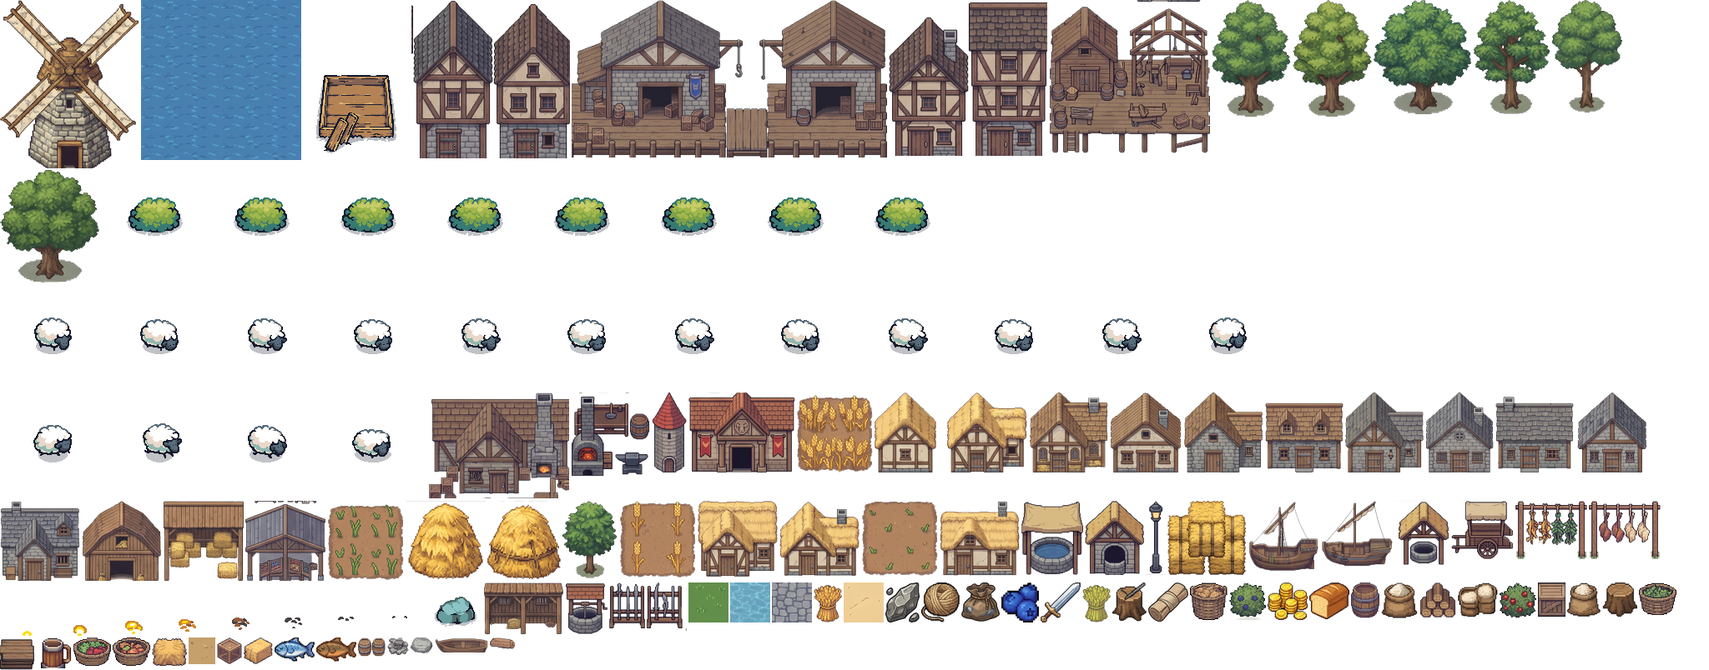
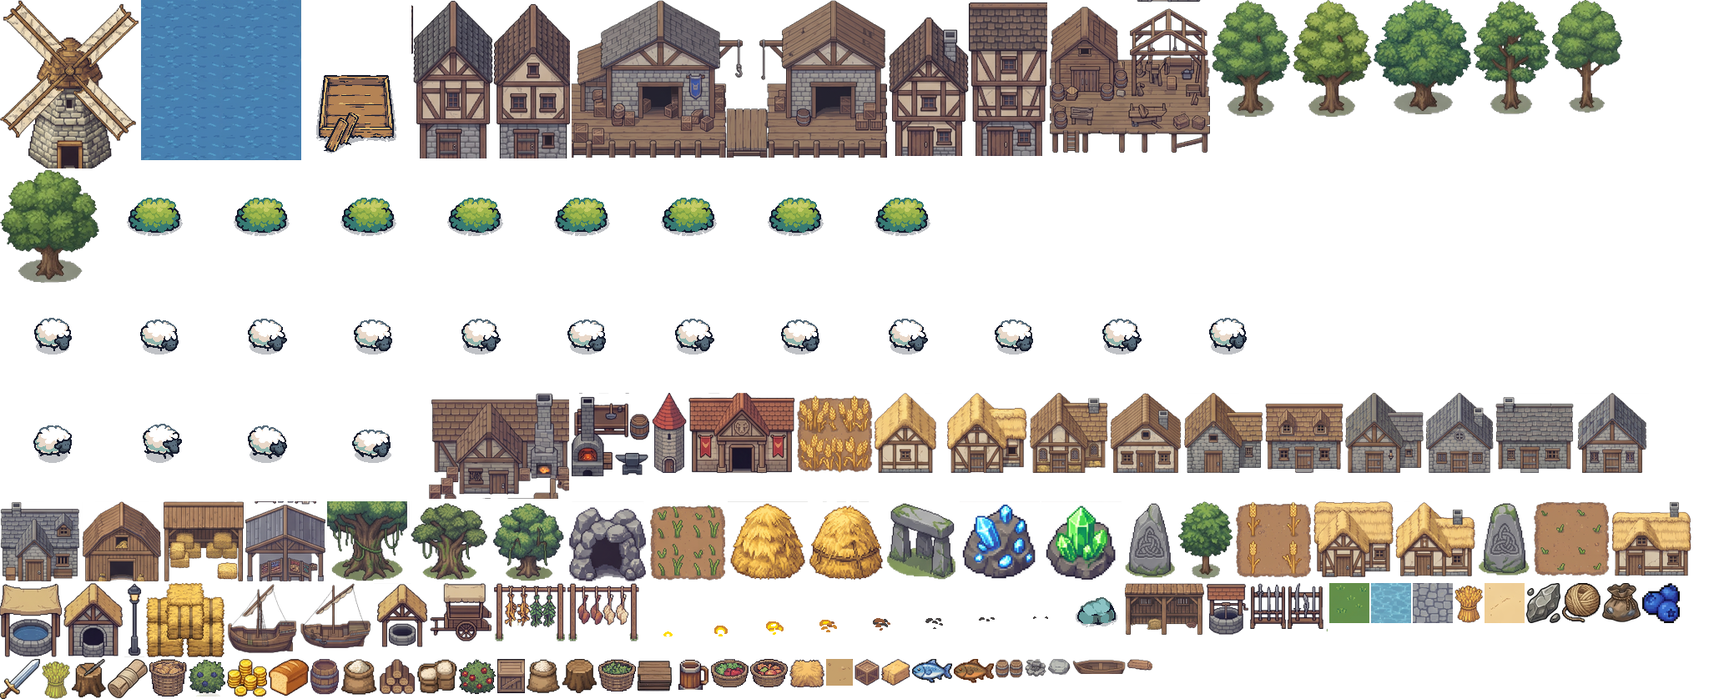
Terres franches, ère 3 étape 1 : la carte de la forêt
- Maquette 9 validée : direction A (la clairière des anciens), sans
  chevauchements ; magie, marché, Édit du Commerce et branche SAVOIR : oui.
- carte.js : CARTES[3], 40 × 40 : grande clairière, grotte aux cristaux
  (terrain Z) entre ses rochers, ruisseau avec ses berges, cercle de
  pierres (terrain C) dans sa clairière, 26 terrains avec une marge
  d'herbe, place assez grande pour la petite ville.
- jeu.js : grotte et cristaux qui luisent, cercle de pierres (dolmen et
  menhirs), arbres anciens dans la forêt ; chaque colonie quittée est
  gardée (terres.vallee, terres.terre2) et se visite.
- atlas.py : morceaux des packs Celtic Druid Village et Underground Mine
  (6e dossier) ; crédits.
- Tests : contrôles de carte sur les trois cartes ; fumée jusqu'à la
  forêt.
- Docs, sw.js v108.

Claude-Session: https://claude.ai/code/session_012rRjPHE6E5cJMLYcQwQ3Zv

diff --git a/terres-franches/atlas.js b/terres-franches/atlas.js
@@ -1,3 +1,3 @@
 /* Terres franches : où est chaque image dans img/decor.png et img/animaux.png (fabriqué par outils/terres-maquette/atlas.py). */
-window.TerresAtlas = {"moulin1":[0,0,167,202],"mer":[169,0,192,192],"chantier":[363,0,128,192],"brasserie":[493,0,190,190],"port":[685,0,378,189],"taverne":[1065,0,190,187],"scierie":[1257,0,193,184],"s-arbre1":[1452,0,95,141],"s-arbre6":[1549,0,95,140],"s-arbre5":[1646,0,118,138],"s-arbre3":[1766,0,92,137],"s-arbre2":[1860,0,85,136],"s-arbre4":[0,204,119,135],"buisson":[121,204,1024,128],"mouton-broute":[0,341,1536,128],"mouton-marche":[0,471,512,128],"fumoir":[514,471,168,127],"forge":[684,471,95,101],"tour":[781,471,42,97],"caserne":[825,471,128,97],"champ-mur":[955,471,91,96],"chaume2":[1048,471,85,96],"chaume5":[1135,471,96,96],"colomb1":[1233,471,95,96],"colomb2":[1330,471,86,96],"colomb3":[1418,471,96,96],"colomb4":[1516,471,94,96],"pierre1":[1612,471,94,96],"pierre2":[1708,471,82,96],"pierre3":[1792,471,94,96],"pierre4":[1888,471,88,96],"pierre5":[0,601,96,96],"grange":[98,601,96,96],"hangar":[196,601,96,96],"atelier":[294,601,96,96],"champ-pousse":[392,601,92,95],"meule1":[486,601,96,95],"meule2":[584,601,88,95],"s-jeune":[674,601,66,93],"champ-blond":[742,601,92,92],"chaume1":[836,601,96,91],"chaume4":[934,601,96,91],"champ-nu":[1032,601,92,90],"chaume3":[1126,601,96,90],"fontaine":[1224,601,74,89],"four":[1300,601,71,89],"lanterne":[1373,601,24,89],"meule-foin":[1399,601,95,89],"voilier":[1496,601,85,85],"barque-pillards":[1583,601,87,79],"puits-couvert":[1672,601,65,77],"charrette":[1739,601,75,70],"sechoir-poisson":[1816,601,86,70],"sechoir-viande":[1904,601,86,70],"feu":[0,699,512,64],"rocher":[514,699,64,64],"abri":[580,699,95,63],"puits":[677,699,51,62],"ratelier":[730,699,93,58],"herbe":[825,699,48,48],"eau":[875,699,48,48],"pave":[925,699,48,48],"i-ble":[975,699,34,48],"sable":[1011,699,48,48],"i-pierre":[1061,699,41,48],"i-laine":[1104,699,46,48],"i-farine":[1152,699,46,48],"i-baies":[1200,699,45,48],"i-armes":[1247,699,48,48],"i-orge":[1297,699,34,48],"souche-hache":[1333,699,41,47],"i-tissu":[1376,699,48,47],"panier-patates":[1426,699,45,45],"baies-bleues":[1473,699,44,45],"i-or":[1519,699,48,45],"i-pain":[1569,699,48,44],"tonneau":[1619,699,34,43],"sac-farine":[1655,699,44,43],"i-bois":[1701,699,44,42],"sacs-grain":[1747,699,48,42],"baies-rouges":[1797,699,44,42],"caisse":[1843,699,33,41],"sac":[1878,699,40,41],"souche":[1920,699,42,41],"panier-legumes":[1964,699,45,39],"i-planches":[0,765,46,39],"i-biere":[48,765,38,37],"panier-baies":[88,765,45,34],"panier-pommes":[135,765,45,34],"foin":[182,765,42,34],"terre":[226,765,32,32],"caisse-p":[260,765,30,32],"botte":[292,765,35,32],"i-poisson":[329,765,48,29],"i-fume":[379,765,48,29],"tonneaux":[429,765,33,23],"gravats":[464,765,26,21],"rocher-p":[492,765,27,19],"barque":[521,765,64,18],"buche":[587,765,30,14]};
+window.TerresAtlas = {"moulin1":[0,0,167,202],"mer":[169,0,192,192],"chantier":[363,0,128,192],"brasserie":[493,0,190,190],"port":[685,0,378,189],"taverne":[1065,0,190,187],"scierie":[1257,0,193,184],"s-arbre1":[1452,0,95,141],"s-arbre6":[1549,0,95,140],"s-arbre5":[1646,0,118,138],"s-arbre3":[1766,0,92,137],"s-arbre2":[1860,0,85,136],"s-arbre4":[0,204,119,135],"buisson":[121,204,1024,128],"mouton-broute":[0,341,1536,128],"mouton-marche":[0,471,512,128],"fumoir":[514,471,168,127],"forge":[684,471,95,101],"tour":[781,471,42,97],"caserne":[825,471,128,97],"champ-mur":[955,471,91,96],"chaume2":[1048,471,85,96],"chaume5":[1135,471,96,96],"colomb1":[1233,471,95,96],"colomb2":[1330,471,86,96],"colomb3":[1418,471,96,96],"colomb4":[1516,471,94,96],"pierre1":[1612,471,94,96],"pierre2":[1708,471,82,96],"pierre3":[1792,471,94,96],"pierre4":[1888,471,88,96],"pierre5":[0,601,96,96],"grange":[98,601,96,96],"hangar":[196,601,96,96],"atelier":[294,601,96,96],"arbre-ancien1":[392,601,96,96],"arbre-ancien2":[490,601,96,96],"arbre-ancien3":[588,601,90,96],"grotte":[680,601,96,96],"champ-pousse":[778,601,92,95],"meule1":[872,601,96,95],"meule2":[970,601,88,95],"dolmen":[1060,601,88,95],"cristaux-b":[1150,601,96,95],"cristaux-v":[1248,601,96,95],"menhir2":[1346,601,64,94],"s-jeune":[1412,601,66,93],"champ-blond":[1480,601,92,92],"chaume1":[1574,601,96,91],"chaume4":[1672,601,96,91],"menhir":[1770,601,65,91],"champ-nu":[1837,601,92,90],"chaume3":[1931,601,96,90],"fontaine":[0,699,74,89],"four":[76,699,71,89],"lanterne":[149,699,24,89],"meule-foin":[175,699,95,89],"voilier":[272,699,85,85],"barque-pillards":[359,699,87,79],"puits-couvert":[448,699,65,77],"charrette":[515,699,75,70],"sechoir-poisson":[592,699,86,70],"sechoir-viande":[680,699,86,70],"feu":[768,699,512,64],"rocher":[1282,699,64,64],"abri":[1348,699,95,63],"puits":[1445,699,51,62],"ratelier":[1498,699,93,58],"herbe":[1593,699,48,48],"eau":[1643,699,48,48],"pave":[1693,699,48,48],"i-ble":[1743,699,34,48],"sable":[1779,699,48,48],"i-pierre":[1829,699,41,48],"i-laine":[1872,699,46,48],"i-farine":[1920,699,46,48],"i-baies":[1968,699,45,48],"i-armes":[0,790,48,48],"i-orge":[50,790,34,48],"souche-hache":[86,790,41,47],"i-tissu":[129,790,48,47],"panier-patates":[179,790,45,45],"baies-bleues":[226,790,44,45],"i-or":[272,790,48,45],"i-pain":[322,790,48,44],"tonneau":[372,790,34,43],"sac-farine":[408,790,44,43],"i-bois":[454,790,44,42],"sacs-grain":[500,790,48,42],"baies-rouges":[550,790,44,42],"caisse":[596,790,33,41],"sac":[631,790,40,41],"souche":[673,790,42,41],"panier-legumes":[717,790,45,39],"i-planches":[764,790,46,39],"i-biere":[812,790,38,37],"panier-baies":[852,790,45,34],"panier-pommes":[899,790,45,34],"foin":[946,790,42,34],"terre":[990,790,32,32],"caisse-p":[1024,790,30,32],"botte":[1056,790,35,32],"i-poisson":[1093,790,48,29],"i-fume":[1143,790,48,29],"tonneaux":[1193,790,33,23],"gravats":[1228,790,26,21],"rocher-p":[1256,790,27,19],"barque":[1285,790,64,18],"buche":[1351,790,30,14]};
 window.TerresAnimauxAtlas = {"chat":[0,0,512,256],"chien":[514,0,512,256],"biche":[1028,0,256,384],"cerf":[1286,0,256,384],"renard":[1544,0,256,256],"oiseau1":[1802,0,96,256],"oiseau2":[1900,0,96,256],"poule":[1998,0,128,128],"poule-mange":[2128,0,128,128],"poisson":[2258,0,128,128]};

diff --git a/terres-franches/carte.js b/terres-franches/carte.js
@@ -56,9 +56,9 @@ function fabriquer(n, nom, GRILLE, o){
     const c = GRILLE[y][x];
     if (c === "F") FEU = [x, y];
     if (c === "^") TENTE = [x, y];
-    if (!/[a-zXYPQRSKLGM]/.test(c)) continue;
+    if (!/[a-zXYPQRSKLGMZC]/.test(c)) continue;
     const L = LOTS[c] || (LOTS[c] = {id: c, x, y, l: 0, h: 0, terrain: /[a-z]/.test(c) ? "terre" : /[XY]/.test(c) ? "roche" : /[RS]/.test(c) ? "reserve" : /[KL]/.test(c) ? "garnison" 
-      : c === "G" ? "guet" : c === "M" ? "port" : "rive", tags: ETIQUETTES[c] || []});
+      : c === "G" ? "guet" : c === "M" ? "port" : c === "Z" ? "grotte" : c === "C" ? "cercle" : "rive", tags: ETIQUETTES[c] || []});
     L.l = Math.max(L.l, x - L.x + 1); L.h = Math.max(L.h, y - L.y + 1);
   }
   for (const L of Object.values(LOTS)){
@@ -137,7 +137,7 @@ function fabriquer(n, nom, GRILLE, o){
         const nx = x + DIRS[nd][0], ny = y + DIRS[nd][1]; if (nx < 0 || ny < 0 || nx >= W || ny >= H) continue;
         const c = GRILLE[ny][nx], estBut = but(nx, ny);
         let k = deja.has(ny * W + nx) ? .35 : cout(c);
-        if (/[a-zXYPQM]/.test(c) && !estBut) k = null;
+        if (/[a-zXYPQMZC]/.test(c) && !estBut) k = null;
         if (eviter && eviter.has(ny * W + nx) && !estBut) k = null;
         if (k === null) continue;
         const ng = gc + k + (d !== 4 && d !== nd ? .6 : 0), kk = cle(nx, ny, nd);
@@ -221,14 +221,61 @@ const COTE = [
   "~~~~~~~~~~~~~~~~~~~~~~~~~~~~~~~~",
   "~~~~~~~~~~~~~~~~~~~~~~~~~~~~~~~~",
   "~~~~~~~~~~~~~~~~~~~~~~~~~~~~~~~~"];
+/* ---------- la forêt profonde (ère 3, maquette 9 direction A : la clairière des anciens) ----------
+   40 × 40 : une grande clairière dans la forêt ; au nord, la grotte aux cristaux (Z, « grotte », 3 × 2) entre ses rochers, d'où le ruisseau part
+   vers l'est puis longe tout le bord est ; le cercle de pierres (C, « cercle », 3 × 3) dans sa clairière au nord-ouest ; chaque terrain a une marge
+   d'herbe (rien ne chevauche la forêt), le ruisseau a ses berges ; 26 terrains de 3 × 3 (bonne terre à l'est, entre la ville et le ruisseau : o p q r s t ; pré : z). */
+const FORET = [
+  "TTTTTTTTTTTTTTTTTTTTTTTTTTTTTTTTTTTTTTTT",
+  "TTTTTTTTTTTTTTT..TT..TTTTTTTTTTTTTTTTTTT",
+  "TTTTTTTTTTTT...........TTTTTTTTTTTTTTTTT",
+  "TTTTTTTTTTT..XX...ZZZ..................T",
+  "TTTTTTTTTT...XX...ZZZ.~~~~~~~~~~~~~~~~~T",
+  "TTTTTTTT..............~~~~~~~~~~~~~~~~~T",
+  "TTT......zzz.YY......................~~T",
+  "TT.......zzz.YY........RR...TTTTTTTT.~~T",
+  "TT.......zzz...........RR.......TTTT.~~T",
+  "T...CCC.........................TTTT.~~T",
+  "T...CCC.......*...........*....TTTTT.~~T",
+  "TT..CCC.........................TTTT.~~T",
+  "TTT................................T.~~T",
+  "TTT.....*..aaa.bbb.ccc.ddd....ooo..T.~~T",
+  "TTTT.......aaa.bbb.ccc.ddd....ooo..T.~~T",
+  "TTT........aaa.bbb.ccc.ddd....ooo...P~~T",
+  "TT...................................~~T",
+  "TT.....xxx.iii............lll.ppp.sss~~T",
+  "TTTT...xxx.iii............lll.ppp.sss~~T",
+  "T......xxx.iii............lll.ppp.sss~~T",
+  "T................^...................~~T",
+  "TTT....yyy.jjj.....F......mmm.qqq.ttt~~T",
+  "TTT....yyy.jjj............mmm.qqq.ttt~~T",
+  "TT.....yyy.jjj............mmm.qqq.ttt~~T",
+  "TT...................................~~T",
+  "TT..*..KKK.kkk............nnn.rrr....~~T",
+  "TT.....KKK.kkk..*.........nnn.rrr....~~T",
+  "T......KKK.kkk............nnn.rrr...Q~~T",
+  "TTTT.................................~~T",
+  "TTTT...LLL.eee.fff.ggg.hhh....SS.....~~T",
+  "TTTT.*.LLL.eee.fff.ggg.hhh....SS...T.~~T",
+  "TT.T...LLL.eee.fff.ggg.hhh.........T.~~T",
+  "T.G.TT............................TT.~~T",
+  "......T....uuu.vvv.....www.......TTT.~~T",
+  "TTTTTTTTTT.uuu.vvv.....www.......TTT.~~T",
+  "TTTTTTTTTT.uuu.vvv.....www..TTTTTTTT.~~T",
+  "TTTTTTTTTT.................TTTTTTTTT.~~T",
+  "TTTTTTTTTTTTTT...TT...TT..TTTTTTTTTT.~~T",
+  "TTTTTTTTTTTTTTT.TTT..TTTTTTTTTTTTTTT.~~T",
+  "TTTTTTTTTTTTTTTTTTTTTTTTTTTTTTTTTTTT.~~T"];
 const CARTES = {
   1: fabriquer(1, "LA VALLEE", GRILLE, {etiquettes: {i: ["fertile"], j: ["fertile"], k: ["fertile"], l: ["fertile"], n: ["pre"]}, entree: [2, 23],
     zones: {biche: [[3, 10, 2, 6], [1, 4.5, 8, 15]], cerf: [3, 11, 1.5, 5.5], renard: [21.2, 21.8, 3, 17], champs: [2, 13, 17, 23]}}),
   2: fabriquer(2, "LA COTE", COTE, {etiquettes: {m: ["fertile"], r: ["fertile"], s: ["fertile"], q: ["fertile"], w: ["fertile"], p: ["pre"]}, entree: [0, 17], mer: true,
-    zones: {biche: [[2, 9, 2, 6], [26, 30, 2, 9]], cerf: [8, 16, 1.5, 4], renard: [1, 30, 26.2, 26.8], champs: [24, 30, 6, 22]}})
+    zones: {biche: [[2, 9, 2, 6], [26, 30, 2, 9]], cerf: [8, 16, 1.5, 4], renard: [1, 30, 26.2, 26.8], champs: [24, 30, 6, 22]}}),
+  3: fabriquer(3, "LA FORET", FORET, {etiquettes: {o: ["fertile"], p: ["fertile"], q: ["fertile"], r: ["fertile"], s: ["fertile"], t: ["fertile"], z: ["pre"]}, entree: [0, 33],
+    zones: {biche: [[1, 8, 1, 8], [27, 36, 6, 11]], cerf: [1, 4, 12, 30], renard: [36.2, 36.8, 7, 34], champs: [29, 37, 12, 28]}})
 };
 // la carte d'une partie (selon son ère) ; l'objet exporté est la carte affichée, changée sur place par utiliser(n)
-const de = S => CARTES[Math.min(2, (S && S.ere) || 1)];
+const de = S => CARTES[Math.min(3, (S && S.ere) || 1)];
 const api = Object.assign({CARTES, de, utiliser(n){ if (api.n !== n) Object.assign(api, CARTES[n]); return api; }}, CARTES[1]);
 if (typeof module !== "undefined" && module.exports) module.exports = api;
 if (typeof window !== "undefined") window.TerresCarte = api;

diff --git a/terres-franches/jeu.js b/terres-franches/jeu.js
@@ -65,7 +65,7 @@ function fonder(nom){
   recompenser(); const L = lois();
   const P = REEL || S; if (!P.loi) return "LA LOI N'EST PAS PROMULGUEE";
   P.vu = Date.now();
-  if ((P.ere || 1) === 1) ecrire(CLE_VALLEE, R.sauver(P));
+  ecrire(cleTerre(P.ere || 1), R.sauver(P));
   L.colonies.push({nom: P.nom || DON.ERES[P.ere || 1].nom, ere: P.ere || 1, pop: P.pop, statut: P.statut, fin: Date.now()});
   sauverLois(L);
   S = R.nouvelleColonie({nom, lois: L.prises, ere: (P.ere || 1) + 1});
@@ -73,9 +73,10 @@ function fonder(nom){
   return null;
 }
 // revoir la vallée, figée : rien n'y avance, la partie en cours continue pendant ce temps
-const valleeGardee = () => !!lire(CLE_VALLEE);
-function visiter(){
-  const t = lire(CLE_VALLEE), V0 = t && R.charger(t); if (!V0) return false;
+const cleTerre = e => e === 1 ? CLE_VALLEE : "terres.terre" + e;
+const valleeGardee = (e) => !!lire(cleTerre(e || 1));
+function visiter(e){
+  const t = lire(cleTerre(e || 1)), V0 = t && R.charger(t); if (!V0) return false;
   if (!REEL) REEL = S;
   V0.raid.phase = null; V0.evts = []; S = V0; vueNeuve(); document.body.classList.add("visite"); centrer(); return true;
 }
@@ -106,7 +107,7 @@ function planterArbres(){
   for (let y = -2; y < C.H - 1; y += 2) for (let xx = -2; xx < C.W + 1; xx += 2){
     let n = 0; for (const [dx, dy] of [[0, 0], [1, 0], [0, 1], [1, 1]]) if (C.case_(xx + dx, y + dy) === "T") n++;
     if (n < 3) continue;
-    const h = hash(xx, y), n2 = "s-arbre" + (1 + Math.floor(h * 6));
+    const h = hash(xx, y), n2 = C.n === 3 && AT["arbre-ancien1"] && hash(y * 3, xx) < .22 ? "arbre-ancien" + (1 + Math.floor(hash(xx, y * 7) * 3)) : "s-arbre" + (1 + Math.floor(h * 6));   // la forêt profonde : des arbres anciens
     // décalé au hasard, sinon au centre du carré, sinon on recule vers la forêt : l'ombre au pied ne doit pas toucher l'eau
     for (const [ox, oy] of [[(h - .5) * 1.2, (hash(y, xx) - .5)], [0, 0], [.5, 0], [-.5, 0], [0, -.5]]){
       const X = (xx + 1 + ox) * T, Y = (y + 1.6 + oy) * T;
@@ -349,6 +350,19 @@ function barques(t){
   const n = Math.min(3, Math.max(1, (S.jobs.pecheur || 0) - 4)), X = (L.x + L.l / 2) * T, Y = (L.y + L.h + 2.2) * T;
   for (let k = 0; k < n; k++){ const an = t * .07 + k * 2.1, bx = X + Math.cos(an) * (110 + k * 40), by = Y + 20 + Math.sin(an) * 18 + k * 14;
     x.save(); x.translate(Math.round(bx), Math.round(by)); if (Math.sin(an) < 0) x.scale(-1, 1); spr("barque", 0, Math.sin(t * 2 + k) * 1.2, .8); x.restore(); }
+}
+// la forêt profonde : la grotte aux cristaux (au nord, entre ses rochers) et le cercle de pierres (le lieu du mage)
+function grotte(L, t){
+  const X = (L.x + L.l / 2) * T, Y = (L.y + L.h) * T + 6;
+  spr("grotte", X, Y, 1.05);
+  for (const [dx, dy, n, k] of [[-46, 2, "cristaux-b", .5], [44, 4, "cristaux-v", .45], [-24, 12, "cristaux-v", .32]]) spr(n, X + dx, Y + dy, k);
+  const a = .25 + .1 * Math.sin(t * 1.5); x.fillStyle = `rgba(140,190,255,${a})`; x.beginPath(); x.ellipse(X, Y - 38, 40, 18, 0, 0, 6.3); x.fill();   // la lueur des cristaux
+}
+function cercle(L, liste){
+  const X = (L.x + L.l / 2) * T, Y = (L.y + L.h / 2) * T + 8;
+  liste.push([Y - 12, () => spr("dolmen", X, Y - 4, .62)]);
+  for (let k = 0; k < 8; k++){ const an = k / 8 * 6.283 + .2, px = X + Math.cos(an) * 50, py = Y + Math.sin(an) * 30; if (Math.abs(Math.sin(an)) < .2 && Math.cos(an) > 0 && k % 2) continue;
+    liste.push([py, () => spr(k % 3 ? "menhir" : "menhir2", px, py, .38)]); }
 }
 function ponton(L){
   const [dx, dy] = L.vers, X = (L.x + .5) * T, Y = (L.y + .5) * T, lg = 1.6 * T;
@@ -779,6 +793,8 @@ function image(now){
   for (let y = 0; y < C.H; y++) for (let xx = 0; xx < C.W; xx++) if (C.GRILLE[y][xx] === "*") L.push([(y + .95) * T, () => buissonBaies(xx, y, t)]);
   for (const id in C.LOTS){ const Lo = C.LOTS[id];
     if (Lo.terrain === "roche" && S.lots[id] !== "carriere") for (const [a, b2, k] of ROCHERS) L.push([Lo.y * T + b2, () => spr("rocher", Lo.x * T + a, Lo.y * T + b2, k)]);
+    if (Lo.terrain === "grotte" && !S.lots[id]) L.push([(Lo.y + Lo.h) * T, () => grotte(Lo, t)]);
+    if (Lo.terrain === "cercle" && !S.lots[id]) cercle(Lo, L);
     if (enCours[id] && enCours[id].agrandit) L.push([(Lo.y + Lo.h) * T, () => { batiment(S.lots[id], id, t); chantier(enCours[id], id, t, true); }]);
     else if (enCours[id]) L.push([(Lo.y + Lo.h) * T, () => chantier(enCours[id], id, t)]);
     else if (S.lots[id] && !["champ", "orge", "ponton"].includes(S.lots[id])) L.push([(Lo.y + Lo.h) * T - 2, () => batiment(S.lots[id], id, t)]);

diff --git a/credits/index.html b/credits/index.html
@@ -111,7 +111,7 @@
   <div class="res"><b>Celtic Druid Village Top-Down Pixel Art Tileset</b><span class="lic">licence du pack (achat)</span>
     <p>Par Cute SCKR (comshadow), même lot que la vallée. Usage dans un jeu permis, revente et redistribution des fichiers seuls interdites ; crédit apprécié. Le pack n'est pas dans le dépôt.</p>
     <p><a href="https://comshadow.itch.io/celtic-druid-village-topdown-pixel-art-tileset">comshadow.itch.io/celtic-druid-village-topdown-pixel-art-tileset</a> · <a href="https://itch.io/s/181841/tileset-bundle">itch.io/s/181841/tileset-bundle</a></p>
-    <p class="jeux">Maquette 9 de Terres franches (la forêt profonde) : arbres anciens, cercle de pierres, dolmens.</p></div>
+    <p class="jeux">Terres franches (le jeu, <code>terres-franches/img/decor.png</code>) : arbres anciens, dolmen et menhirs du cercle de pierres (ère 3). Maquette 9 de Terres franches (la forêt profonde) : arbres anciens, cercle de pierres, dolmens.</p></div>
   <div class="res"><b>Fairy Forest Village Top-Down Pixel Art Tileset</b><span class="lic">licence du pack (achat)</span>
     <p>Par Cute SCKR (comshadow), même lot que la vallée. Usage dans un jeu permis, revente et redistribution des fichiers seuls interdites ; crédit apprécié. Le pack n'est pas dans le dépôt.</p>
     <p><a href="https://comshadow.itch.io/fairy-forest-village-topdown-pixel-art-tileset">comshadow.itch.io/fairy-forest-village-topdown-pixel-art-tileset</a> · <a href="https://itch.io/s/181841/tileset-bundle">itch.io/s/181841/tileset-bundle</a></p>
@@ -119,7 +119,7 @@
   <div class="res"><b>Medieval Underground Mine Top-Down Pixel Art Tileset</b><span class="lic">licence du pack (achat)</span>
     <p>Par Cute SCKR (comshadow), même lot que la vallée. Usage dans un jeu permis, revente et redistribution des fichiers seuls interdites ; crédit apprécié. Le pack n'est pas dans le dépôt.</p>
     <p><a href="https://comshadow.itch.io/medieval-underground-mine-topdown-pixel-art-tileset">comshadow.itch.io/medieval-underground-mine-topdown-pixel-art-tileset</a> · <a href="https://itch.io/s/181841/tileset-bundle">itch.io/s/181841/tileset-bundle</a></p>
-    <p class="jeux">Maquette 9 de Terres franches (la forêt profonde) : grotte, cristaux.</p></div>
+    <p class="jeux">Terres franches (le jeu, <code>terres-franches/img/decor.png</code>) : la grotte et les cristaux (ère 3). Maquette 9 de Terres franches (la forêt profonde) : grotte, cristaux.</p></div>
   <div class="res"><b>Universal LPC Spritesheet Character Generator (calques de personnages)</b><span class="lic">CC-BY-SA 3.0 / GPL 3.0 / OGA-BY</span>
     <p>Par les auteurs du Liberated Pixel Cup et leurs successeurs (bluecarrot16, JaidynReiman, Pierre Vigier, Tuomo Untinen, Stephen Challener, Johannes Sjölund et beaucoup d'autres : la liste exacte par calque est dans le fichier CREDITS.csv du dépôt, elle sera recopiée ici pour chaque calque utilisé dans le jeu).</p>
     <p><a href="https://github.com/LiberatedPixelCup/Universal-LPC-Spritesheet-Character-Generator">github.com/LiberatedPixelCup/Universal-LPC-Spritesheet-Character-Generator</a></p>

diff --git a/outils/terres-simulateur.js b/outils/terres-simulateur.js
@@ -119,13 +119,13 @@ const mn = s => s === undefined ? "  —  " : (s / 60).toFixed(1).padStart(5) + 
 
 /* ---------- la carte : emplacements proposés, déplacement, routes ---------- */
 // les deux cartes : la vallée (ère 1) et la côte (ère 2) ; nb = terrains de 3 × 3, maxi = cases de rue au plus (pas de détours)
-for (const [ere, nb, maxi, stMax] of [[1, 14, 150, 2], [2, 23, 300, 3]]){
+for (const [ere, nb, maxi, stMax] of [[1, 14, 150, 2], [2, 23, 300, 3], [3, 26, 420, 4]]){
   const C = require("../terres-franches/carte.js").CARTES[ere], L = C.LOTS, nom = C.nom.toLowerCase() + " : ";
   const compte = t => Object.values(L).filter(l => l.terrain === t).length;
   verif(compte("terre") === nb && compte("roche") === 2 && compte("rive") === 2 && C.FEU && C.TENTE && C.ENTREE && C.case_(...C.ENTREE) !== "T", nom + "carte : " + nb + " terrains, 2 rochers, 2 rives, le feu, la tente, l'entrée");
   verif(Object.values(L).every(l => l.terrain !== "terre" || (l.l === 3 && l.h === 3)), nom + "terrains de 3 × 3 cases");
   if (ere > 1) verif(Object.values(L).every(l => l.terrain !== "terre" || [...Array(stMax + 1).keys()].every(st => [[l.x, l.y], [l.x + 2, l.y], [l.x, l.y + 2], [l.x + 2, l.y + 2]].every(([x, y]) => !C.surPlace(x, y, st)))), nom + "la place, à son plus grand, ne mange aucun terrain");
-  const S = ere === 1 ? R.creer() : R.nouvelleColonie({}); S.statut = 2; for (const r in S.res) S.res[r] = 1e5;
+  const S = ere === 1 ? R.creer() : R.nouvelleColonie({ere}); S.statut = 2; for (const r in S.res) S.res[r] = 1e5;
   const d = id => Math.hypot(L[id].cx - C.FEU[0], L[id].cy - C.FEU[1]);
   R.construire(S, "cabane"); const c1 = S.ordreLots[0];
   verif(Object.values(L).filter(l => l.terrain === "terre").every(l => d(c1) <= d(l.id) + 1e-9), nom + "la 1re cabane va au plus près du feu");
@@ -142,7 +142,7 @@ for (const [ere, nb, maxi, stMax] of [[1, 14, 150, 2], [2, 23, 300, 3]]){
   while (!R.construire(S, "cabane") || !R.construire(S, "maison")) ;
   for (const t of ["terre", "roche", "rive", "reserve", "garnison", "guet"]) for (const id of C.libres(S, t)) S.lots[id] = t === "terre" ? "atelier" : t === "roche" ? "carriere" : t === "rive" ? "ponton" : t === "garnison" ? (id === "K" ? "caserne" : "forge") : t === "guet" ? "tour" : id === "R" ? "aire" : "grenier", S.ordreLots.push(id);
   const ro = C.routes(S);
-  const bat = Object.keys(L).filter(id => L[id].terrain !== "port").length;   // le port (étape 3) attend son bâtiment
+  const bat = Object.keys(L).filter(id => !["port", "grotte", "cercle"].includes(L[id].terrain)).length;   // port, grotte et cercle : leurs bâtiments viennent avec le contenu de leur ère
   verif(ro.traces.length === bat, nom + "routes : chaque bâtiment a sa rue (" + ro.traces.length + "/" + bat + ")");
   verif(ro.traces.every(tr => { const p = C.porte(S, tr.id); return tr.cases[0][0] === p[0] && tr.cases[0][1] === p[1]; }), nom + "routes : elles partent des portes");
   const nr = [...ro.cases].length; verif(nr < maxi, nom + "routes : pas de détours (" + nr + " cases)");

diff --git a/terres-franches/ecran.js b/terres-franches/ecran.js
@@ -308,7 +308,7 @@ function ecranTerres(){
   const S = J.reel, L = J.lois();
   let h = `<div class="terre"><div><b>${MAJ(nomColonie(S))}</b><small>Ère ${S.ere || 1} · ${DON.STATUTS[S.statut].nom.toLowerCase()} de ${S.pop} habitant${S.pop > 1 ? "s" : ""} · en cours</small></div></div>`;
   for (const c of L.colonies.slice().reverse())
-    h += `<div class="terre"><div><b>${MAJ(c.nom)}</b><small>Ère ${c.ere} · ${(DON.STATUTS[c.statut] || DON.STATUTS[0]).nom.toLowerCase()} de ${c.pop} habitants · figée</small></div>${c.ere === 1 && J.valleeGardee() ? `<button type="button" class="bouton petit or" data-visite="1">VISITER</button>` : ""}</div>`;
+    h += `<div class="terre"><div><b>${MAJ(c.nom)}</b><small>Ère ${c.ere} · ${(R.reglages(undefined, c.ere).STATUTS[c.statut] || DON.STATUTS[0]).nom.toLowerCase()} de ${c.pop} habitant${c.pop > 1 ? "s" : ""} · figée</small></div>${J.valleeGardee(c.ere) ? `<button type="button" class="bouton petit or" data-visite="${c.ere}">VISITER</button>` : ""}</div>`;
   if (!L.colonies.length) h += `<p class="note">Une seule colonie pour l'instant. Au village complet, la Charte du Village permettra d'en fonder une nouvelle ; celle-ci restera à revoir ici.</p>`;
   $("terresListe").innerHTML = h; $("terresEcran").hidden = false;
 }
@@ -316,8 +316,8 @@ $("bTerres").onclick = () => { $("menu").hidden = true; ecranTerres(); };
 $("bTerresFermer").onclick = () => { $("terresEcran").hidden = true; };
 $("bMesLois").onclick = () => { $("terresEcran").hidden = true; ecranLois("lecture"); };
 $("terresListe").addEventListener("click", e => {
-  if (!e.target.closest("[data-visite]")) return;
-  if (!J.visiter()) return;
+  const b = e.target.closest("[data-visite]"); if (!b) return;
+  if (!J.visiter(+b.dataset.visite)) return;
   $("terresEcran").hidden = true; bulle(null); finPlacement();
   $("visiteNom").textContent = MAJ(nomColonie(J.S)) + " · FIGEE"; $("visite").hidden = false;
 });

diff --git a/terres-franches/vie.js b/terres-franches/vie.js
@@ -20,7 +20,7 @@ function pluie(S){ const k = Math.floor(S.t / 150); return hash(k, 41) < (saison
 /* ---------- les saisons ---------- */
 const ETATS = [["nu", "pousse", "pousse"], ["pousse", "mur", "mur", "blond"], ["blond", "nu", "blond", "nu"], ["nu"]];
 const etatChamp = (t, i, s) => { const E = ETATS[s]; return E[Math.floor(t / 40 + i * 1.7) % E.length]; };
-const retouche = n => n.startsWith("s-arbre") || n === "s-jeune" ? "arbre" : /^(chaume|colomb|pierre)\d/.test(n) || ["grange", "hangar", "atelier", "four", "moulin1", "puits", "puits-couvert", "fontaine"].includes(n) ? "toit" : null;
+const retouche = n => n.startsWith("s-arbre") || n.startsWith("arbre-ancien") || n === "s-jeune" ? "arbre" : /^(chaume|colomb|pierre)\d/.test(n) || ["grange", "hangar", "atelier", "four", "moulin1", "puits", "puits-couvert", "fontaine"].includes(n) ? "toit" : null;
 const cacheS = {};
 // la planche du décor retouchée pour la saison s (feuilles rousses, fleurs, neige sur les toits et les arbres)
 function recolorer(img, s){

diff --git a/outils/fumee.js b/outils/fumee.js
@@ -173,6 +173,7 @@ const shots = process.argv[2];
         if (TerresCarte.n !== 2 || TerresCarte.W !== 32 || !TerresCarte.MER) return 'la nouvelle colonie n\'est pas sur la côte';
         if (!Terres.visiter() || !Terres.visite || Terres.S.ere !== 1 || TerresCarte.W !== 24) return 'la vallée ne se visite pas';
         Terres.revenir(); if (TerresCarte.W !== 32) return 'le retour de visite ne remet pas la côte';
+        Terres.S.loi = true; Terres.recompenser(); if (Terres.fonder('Bois-Ancien') || Terres.S.ere !== 3 || TerresCarte.W !== 40 || !Terres.valleeGardee(2)) return 'la forêt (ère 3) n\'est pas fondée';
         return 'ok';
       });
       if (r !== 'ok') errs.push('Terres franches : ' + r);

diff --git a/terres-franches/donnees.js b/terres-franches/donnees.js
@@ -210,7 +210,7 @@ const LOIS = {
 };
 const POINTS_LOI = [0, 3, 4];   // par ère : la Charte du Village (ère 1) rapporte 3 points, la Loi des Guildes (ère 2) 4
 // les colonies : une par ère (l'ère 2, la côte, aura sa carte et son contenu aux étapes 2 et 3 du plan)
-const ERES = [null, {nom: "LA VALLEE", loi: "CHARTE DU VILLAGE"}, {nom: "LA COTE", loi: "LOI DES GUILDES"}];
+const ERES = [null, {nom: "LA VALLEE", loi: "CHARTE DU VILLAGE"}, {nom: "LA COTE", loi: "LOI DES GUILDES"}, {nom: "LA FORET", loi: "EDIT DU COMMERCE"}];
 
 // la marche des villageois (cases par seconde ; × route sur les rues et la place)
 const MARCHE = {vitesse: 1.7, route: 1.5};

diff --git a/sw.js b/sw.js
@@ -9,7 +9,7 @@
    - Le cache HTTP du navigateur est contourné (préchargement en « reload », réseau en « no-cache ») :
      une page neuve ne doit jamais tourner avec un script partagé resté ancien.
    - Changer VERSION quand on ajoute ou renomme des fichiers, pour refaire le préchargement. */
-const VERSION = "ludotheque-v107";
+const VERSION = "ludotheque-v108";
 const NET_WAIT = 2500;
 let slowUntil = 0;   // réseau jugé lent : pendant 10 s, les copies en cache sont servies sans attendre
 const FONTS = "ludotheque-fonts";

diff --git a/outils/terres-maquette/atlas.py b/outils/terres-maquette/atlas.py
@@ -5,7 +5,7 @@ Sorties dans terres-franches/img/ :
  - villageois.png (une rangée de 256 px par villageois : marche 576 px, repos 128 px, puis hache, pioche, canne, houe) et ../villageois.js (VILLAGEOIS LPC) ;
  - les pièces d'interface ui-*.png (copiées de bastion/img) ;
  - animaux.png + window.TerresAnimauxAtlas dans ../atlas.js : animaux LPC d'OpenGameArt (chat, chien, biche, cerf, renard, oiseaux, poules, poissons).
-Usage : python3 -I outils/terres-maquette/atlas.py <dossier SCKR> <dossier icônes> <dossier villageois LPC> <dossier des animaux> [<dossier des packs de la côte>]
+Usage : python3 -I outils/terres-maquette/atlas.py <dossier SCKR> <dossier icônes> <dossier villageois LPC> <dossier des animaux> [<dossier des packs de la côte> [<dossier des packs de la forêt>]]
 (mêmes dossiers que fabriquer-7.py ; villageois : sortie de lpc-villageois.py ... 24 11 6)."""
 import json, pathlib, re, shutil, sys
 from PIL import Image
@@ -45,6 +45,14 @@ if len(sys.argv) > 5:
     "barque": ("H4", 12, 55, 66, 30), "voilier": ("H4", 192, 576, 96, 96), "barque-pillards": ("H4", 192, 384, 96, 96), "taverne": ("SP3", 0, 0, 190, 190), "brasserie": ("SP3", 190, 0, 190, 190),
     "i-biere": ("TV4", 580, 0, 42, 40), "i-planches": ("SP5", 676, 148, 46, 42)}
   TOUTES.update(COTE); GARDE += list(COTE)
+# la forêt profonde (ère 3, 13/11) : 6e dossier facultatif = les packs de la forêt (druide/ : Celtic Druid Village, mine/ : Medieval Underground Mine)
+if len(sys.argv) > 6:
+  FO3 = pathlib.Path(sys.argv[6]); pf = lambda d, n: next((FO3 / d).rglob(f"tile-B-0{n}.png"))
+  F.update({"D5": pf("druide", 5), "MI2": pf("mine", 2), "MI3": pf("mine", 3)})
+  FORET = {"arbre-ancien1": ("D5", 0, 0, 96, 96), "arbre-ancien2": ("D5", 96, 0, 96, 96), "arbre-ancien3": ("D5", 192, 0, 96, 96),
+    "dolmen": ("D5", 480, 96, 96, 96), "menhir": ("D5", 288, 192, 96, 96), "menhir2": ("D5", 576, 192, 96, 96),
+    "grotte": ("MI2", 672, 192, 96, 96), "cristaux-b": ("MI3", 192, 384, 96, 96), "cristaux-v": ("MI3", 384, 384, 96, 96)}
+  TOUTES.update(FORET); GARDE += list(FORET)
 images, cache = {}, {}
 for nom in GARDE:
   f, x, y, l, h, *eff = TOUTES[nom]

diff --git a/specs/terres-franches.md b/specs/terres-franches.md
@@ -104,7 +104,9 @@
 - **12/11 — ère 2, étape 2 : la carte de la côte** (fait) : `carte.js` fabrique une carte par ère (`fabriquer`, `CARTES[1]` la vallée, `CARTES[2]` la côte) ; les règles prennent la carte de leur partie (`CARTE.de(S)`), l'écran dessine la carte affichée (`TerresCarte.utiliser(n)`, `preparerCarte` de `jeu.js` : taille, masques de l'eau, du sable et du sous-bois, arbres, pourtour, entrée, bêtes). **La côte** : 32 × 32 cases ; forêt au nord, à l'ouest et à l'est ; la place au milieu (assez grande pour le bourg) entourée de 12 terrains, 11 autres autour (23 en tout ; bonne terre à l'est : m r s q w ; pré au nord-ouest : p) ; rochers et aire au nord ; caserne, forge et tour près de l'entrée (à l'ouest) ; la plage (`,`, sable du pack Medieval Harbour) avec 2 pontons (P Q) et le terrain du futur port (M, 4 × 2, « port », étape 3) ; la mer au sud (motif du pack, plus sombre au large, ne gèle pas l'hiver), écume de sable mouillé, et le pourtour continue la plage et la mer. Quelques arbres isolés dans les prés (abattus quand une rue passe). Bêtes par zone de carte (`ZONES`). Contrôles du simulateur sur les deux cartes (portes reliées, pas de détours, la place du bourg ne mange aucun terrain) ; fumée : la nouvelle colonie est sur la côte, la visite repasse sur la vallée. Corrigé au passage : le bandeau des pillards vide restait affiché (`#alerte[hidden]`).
 - **13/11 — ère 2, étape 3 : le contenu de la côte** (fait) : `ERE2` dans `donnees.js`, fusionné par-dessus l'ère 1 quand `S.ere` = 2 (`R.reglages(mods, ere)` ; un coût se remplace en entier ; `carte.js` lit aussi les bâtiments et métiers de l'ère). **Nouveau** : ressources planches, poisson fumé (vivres 2), orge, bière ; métiers scieur (bois → planches, scierie), fumeur (poisson + bois → poisson fumé, fumoir), paysan (orge, champ d'orge), brasseur (orge → bière, brasserie) ; **taverne** : besoin de bière à 25 habitants (+10 % de moral, la bière se boit) ; **port** de pierre (terrain M, au bourg) : 4 places de pêcheur de plus ; statut **BOURG** (45 habitants : bois 5000, pierre 3000, planches 800, pain 600, poisson fumé 300) ; le village demande aussi 150 planches ; **Loi des Guildes** (45 habitants : planches 2500, pierre 3500, bière 400, vêtements 200, poisson fumé 600) : 4 points de Loi, gardés pour l'ère 3 (pas encore faite) ; maisons de la côte pour 5 ; recrues +7,5 % chacune (au lieu de 15 %) ; caserne à 3 niveaux ; pillards au bourg toutes les 17 à 25 min, plus forts (× 2,3), et **par la mer** (bateau sur la plage). Images (`atlas.py`, dossier des packs de la côte) : fumoir, scierie, port, barques, voilier, bateau des pillards (Medieval Harbour) ; taverne, brasserie, icône des planches (Medieval Seaport) ; chope de bière (Medieval Tavern) ; poisson fumé et orge = icônes reteintées ; champ d'orge = le champ reteinté. Robot : plan par ère (`PLANS`), sur la côte il garde d'abord des bûcherons et un carrier, et ses chaînes s'arrêtent quand le produit est en réserve (l'ère 1 garde son robot du 11/11 : mêmes temps). **Robot actif sur la côte, sans Lois** : hameau 19 min, village 2 h 18, bourg 4 h 20, Guildes 7 h 22 (cible 4 à 6 h avec les Lois : réglage à l'étape 4).
 - **13/11 — ère 2, étape 4 : le simulateur de la côte** (fait) : `partie(profil, ere, lois)` de `outils/terres-simulateur.js` joue aussi la côte ; Lois « types » pour les 3 points de la Charte : glanage, corvées, terre d'accueil. Réglages : scieurs plus rapides (0,18 planche/s, 3 places par scierie), bourg à bois 4000, pierre 2500, planches 700, pain 600, poisson fumé 300 ; Loi des Guildes à planches 1800, pierre 3000, bière 400, vêtements 200, poisson fumé 600. **Résultats du robot** : côte actif avec les Lois types : hameau 16 min, village 2 h 01, bourg 3 h 30, 45 habitants 4 h 21, **Guildes 5 h 01** ; sans Lois 5 h 39 ; en sessions (5 min par heure) 19 h. Autres choix de 3 points : glanage + bonnes saisons 4 h 47, intendant + terre d'accueil + granges 5 h 19 (l'absence ne sert qu'hors ligne). **Cibles vérifiées** : Guildes entre 4 et 6 h avec les Lois, bourg entre 2 h 30 et 4 h 30, Guildes moins de 45 min après le plafond, sans Lois plus lent mais 6 h 30 au plus, sessions moins de 4 jours. L'ère 1 est inchangée (Charte 2 h 49). **L'ère 2 est finie** (prestige, carte, contenu, simulateur) ; suite possible : l'ère 3, ou des retours après essai.
-- **13/11 — maquette 9, la forêt profonde (ère 3)** ([artefact](https://claude.ai/artifact/GAnsK5M9e29LUWKTmUYnr3), `maquettes/terres-franches-foret.html`, `outils/terres-maquette/fabriquer-9.py` + `source-9.html`) : packs achetés récupérés (Celtic Druid Village, Fairy Forest Village, Medieval Underground Mine, Medieval Alchemist Laboratory, Medieval Market ; hors du dépôt). Deux directions : **A la clairière des anciens** (arbres anciens, grotte aux cristaux et ruisseau, cercle de pierres et dolmens = lieu du mage, ville en colombages, maison enchantée en violet) et **B le bois enchanté** (maisons dans les arbres, maisons-champignons, cercle magique au sol, fontaine et bassin des fées, buissons lumineux, cristaux) ; idée : A pour la ville, B pour les bâtiments de la magie. Proposé : carte 40 × 40, on recommence au campement ; statut PETITE VILLE (80) ; mine de cristaux (grotte, bourg) ; bibliothèque (village, grimoires avec planches et pain) ; le mage (unique, enchante les bâtiments proches +20 %, halo visible) ; sorts en cristaux et grimoires (pluie bienfaisante, vent favorable, égide, veille) ; marché (échanges 2 contre 1) ; Loi de l'ère : Édit du Commerce (80 habitants, 5 points) ; branche SAVOIR dans l'arbre des Lois. **En attente des réponses de l'utilisateur.**
+- **13/11 — maquette 9, la forêt profonde (ère 3)** ([artefact](https://claude.ai/artifact/GAnsK5M9e29LUWKTmUYnr3), `maquettes/terres-franches-foret.html`, `outils/terres-maquette/fabriquer-9.py` + `source-9.html`) : packs achetés récupérés (Celtic Druid Village, Fairy Forest Village, Medieval Underground Mine, Medieval Alchemist Laboratory, Medieval Market ; hors du dépôt). Deux directions : **A la clairière des anciens** (arbres anciens, grotte aux cristaux et ruisseau, cercle de pierres et dolmens = lieu du mage, ville en colombages, maison enchantée en violet) et **B le bois enchanté** (maisons dans les arbres, maisons-champignons, cercle magique au sol, fontaine et bassin des fées, buissons lumineux, cristaux) ; idée : A pour la ville, B pour les bâtiments de la magie. Proposé : carte 40 × 40, on recommence au campement ; statut PETITE VILLE (80) ; mine de cristaux (grotte, bourg) ; bibliothèque (village, grimoires avec planches et pain) ; le mage (unique, enchante les bâtiments proches +20 %, halo visible) ; sorts en cristaux et grimoires (pluie bienfaisante, vent favorable, égide, veille) ; marché (échanges 2 contre 1) ; Loi de l'ère : Édit du Commerce (80 habitants, 5 points) ; branche SAVOIR dans l'arbre des Lois. **Réponses de l'utilisateur (13/11)** : la carte = **A** (la clairière des anciens), « attention aux superpositions des éléments » (le cercle de pierres posé sur la forêt dans la maquette : dans le jeu, chaque élément a sa clairière, rien ne chevauche la forêt) ; **oui pour le reste** (magie : grotte aux cristaux, bibliothèque, grimoires, mage et sorts ; marché 2 contre 1 ; Édit du Commerce à 5 points ; branche SAVOIR).
+- **Plan de l'ère 3 (13/11, Opus)** : 1. ✅ (13/11) **carte de la forêt** (`CARTES[3]`, 40 × 40 : clairière dans la forêt profonde, grotte aux cristaux au nord dans sa propre clairière, ruisseau qui en descend, cercle de pierres dans une clairière à l'ouest, place assez grande pour la petite ville ; arbres anciens dans la forêt ; prestige des Guildes vers la forêt, chaque ancienne colonie gardée et visitable) ; 2. **contenu** (`ERE3` : petite ville 80, mine de cristaux, bibliothèque et grimoires, mage et son halo, sorts, marché, Édit du Commerce 5 points, branche SAVOIR) ; 3. **simulateur** (cible : 6 à 10 h, d'après le tableau des ères).
+- **13/11 — ère 3, étape 1 : la carte de la forêt** (fait) : `CARTES[3]` de `carte.js` (40 × 40, `FORET`) : une grande clairière dans la forêt profonde ; au nord, la grotte aux cristaux (Z, terrain « grotte », 3 × 2) entre ses deux rochers (X Y), d'où le ruisseau part vers l'est puis longe tout le bord est (avec ses berges) ; le cercle de pierres (C, terrain « cercle ») dans sa clairière au nord-ouest ; chaque terrain a une marge d'herbe, rien ne chevauche la forêt (retour de l'utilisateur) ; 26 terrains de 3 × 3 (bonne terre à l'est, entre la ville et le ruisseau ; pré au nord-ouest), aire au pied des rochers, grenier près des champs, pontons sur le ruisseau, garnison, tour et entrée à l'ouest ; la place peut grandir jusqu'à la petite ville. Décor : la grotte avec ses cristaux qui luisent et le cercle de pierres (dolmen et menhirs) sont dessinés tant que rien n'est bâti dessus ; des arbres anciens (Celtic Druid Village) parmi les arbres de la forêt. Prestige : la Loi des Guildes permet maintenant de fonder la forêt ; chaque colonie quittée est gardée (`terres.vallee`, `terres.terre2`…) et se visite depuis MES TERRES. **En attendant l'étape 2**, la forêt reçoit le contenu de la côte (jusqu'au bourg et aux Guildes).
 - **Plan de l'ère 2 (11/11, à faire en plusieurs sessions, Opus)** :
   1. ✅ (12/11) **Prestige** : après la Charte, écran des Lois (3 points, arbre `LOIS` dans `donnees.js`, effets lus par `R.eff`-like `R.loi(S, clé)` gardés dans une sauvegarde à part `terres.lois`) ; nommer la nouvelle colonie ; la vallée gardée telle quelle dans `terres.vallee` (menu « Mes terres » : la revoir, figée, sans production) ; nouvelle partie au campement sur la côte avec le premier villageois.
   2. ✅ (12/11) **Carte de la côte** (`carte.js` paramétrée par ère : `CARTES[2]`, 32 × 32) : mer au sud, plage, pontons ; terrains « rive de mer » pour le port ; écume et sable du pack Medieval Harbour (`atlas.py`).
